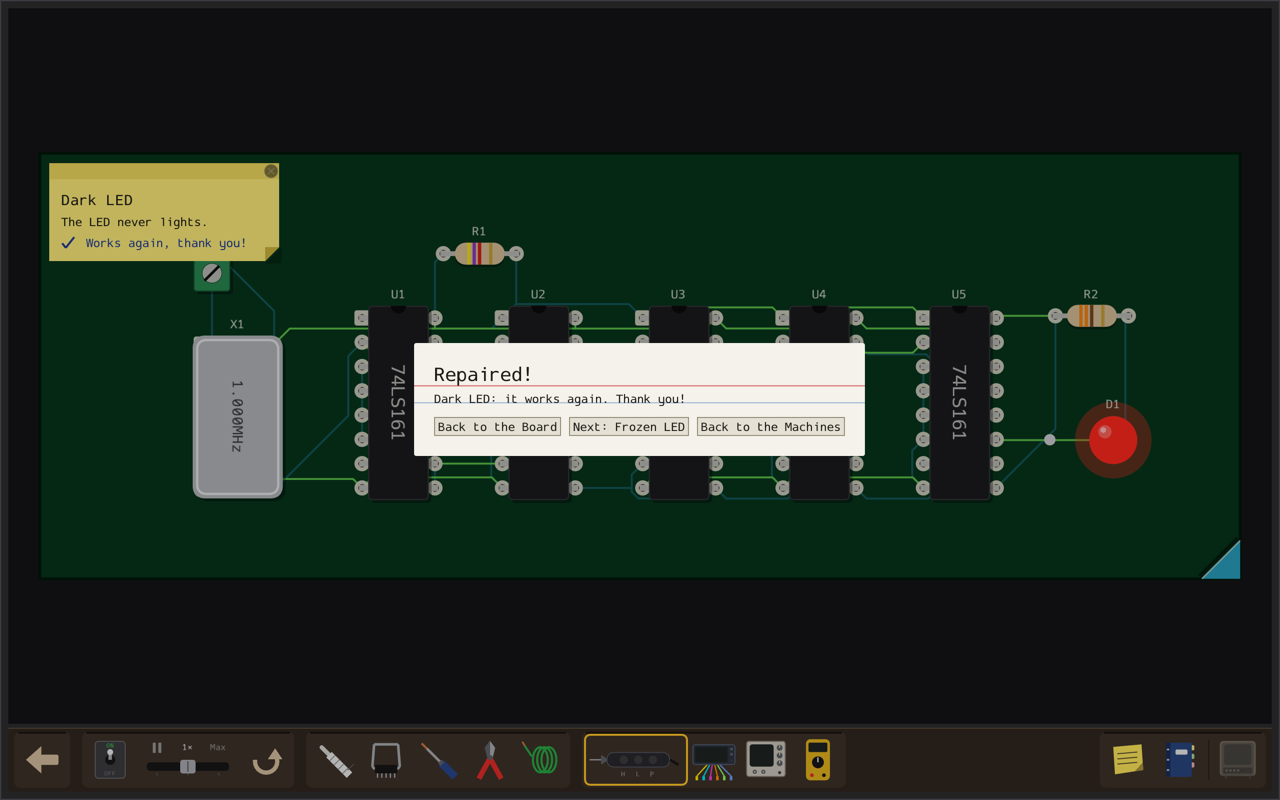
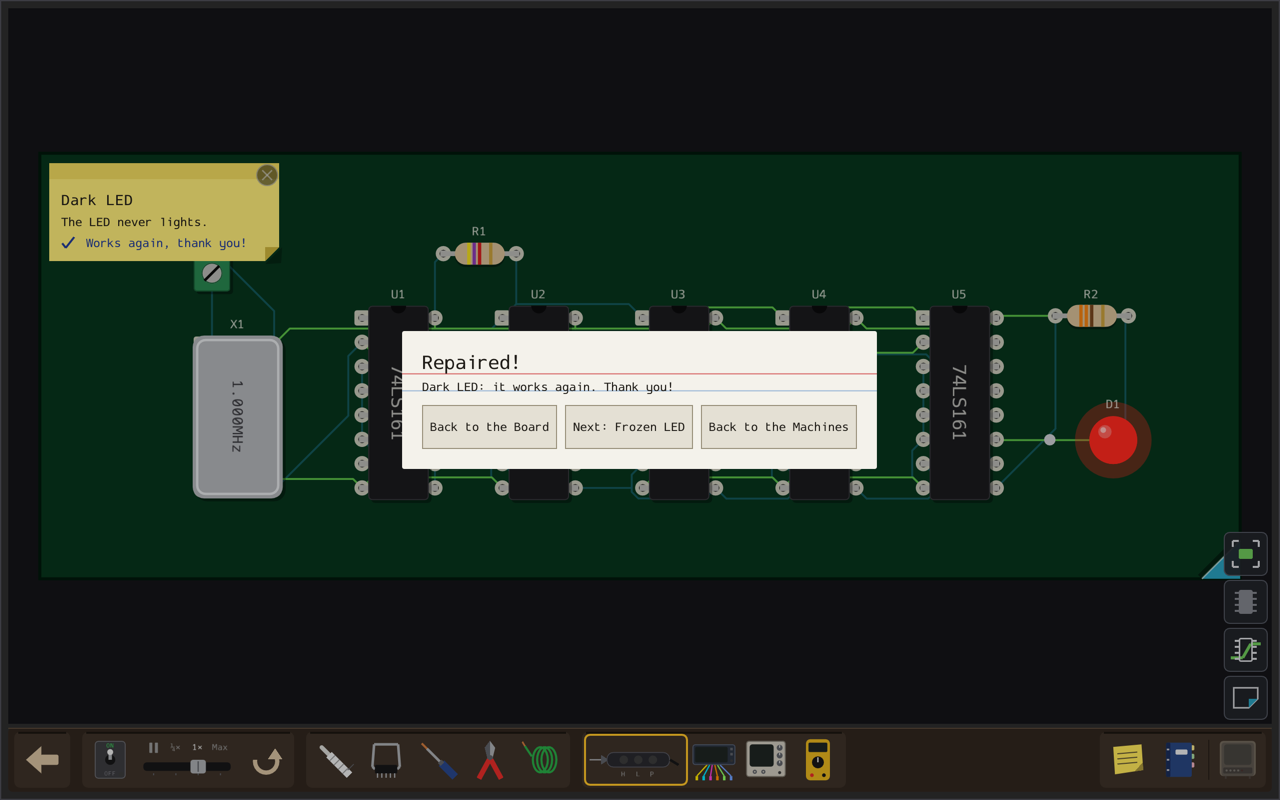
docs: README regenerated, the shots retaken after P8f and P8g
Every picture retaken: the view buttons, the run switch's slow motion, the held multimeter, the
BW-2001's keyboard. The text from the spec: the analyzer's pin / bus switch, the slow motion and
Reset keeping the pencil marks, the view buttons, and Random faults never running out (the binder's
Give up page).

diff --git a/README.md b/README.md
@@ -32,7 +32,9 @@ Every Machine shows up in the launcher with a short description, and each of its
 post-it you can pick. "Start the Machine" gives you the working one, to see how it should behave.
 A Puzzle you've repaired keeps its tick on the launcher, from one launch to the next.
 The last post-it, "Random fault", breaks the Machine somewhere new each time you open it, and
-checks that the fault shows before handing you the bench.
+checks that the fault shows before handing you the bench. It can be anywhere on the board, so
+they never run out: fix one and the owner's card offers you another. If one beats you, the
+binder's Give up page tells you what it was.
 
 ![The launcher](docs/readme/launcher.png)
 
@@ -95,8 +97,8 @@ Here the first four counters have been checked off, and the trace to the LED is 
 ### Instruments
 
 - **Logic probe**: touch any copper and it tells you HIGH, LOW or PULSE.
-- **Logic analyzer**: clip it on chip pins (shift-click takes a whole bus), set a trigger, and read
-  what happened before and after it.
+- **Logic analyzer**: clip it on chip pins (its pin / bus switch takes a whole bus), set a
+  trigger, and read what happened before and after it.
 - **Oscilloscope**: four channels, for when the exact timing between signals matters.
 - **Multimeter**: hold on copper; volts, or continuity with the power off.
 
@@ -135,7 +137,10 @@ And you can look inside the memory chips: the BW-2001's ROM disassembled as 6502
 - **The post-it** with the Puzzle's symptom.
 - **The Machine's own devices**: its TV, keyboard or paddle knobs, each in a window you can pop
   out to its own window on the desktop.
-- **Controls**: power, pause / real time / as fast as possible, and Reset to undo every repair.
+- **Controls**: power, pause / slow motion (a quarter of real time) / real time / as fast as
+  possible, and Reset to undo every repair (your pencil marks stay).
+- **View buttons** beside the Board: fit the whole Board, switch between the real and the plain
+  look, pick the copper under the chips, hold a button or key down, flip the Board over.
 
 The faults you'll meet are cracked traces, chip outputs stuck high or low, solder bridges, bad
 joints, bad memory cells, and the odd dead switch.

diff --git a/docs/README_SPEC.md b/docs/README_SPEC.md
@@ -70,7 +70,9 @@ back on. 114 Puzzles on 14 Machines, from a five-chip LED blinker to copies of t
 Then the launcher picture (`launcher`): each Machine with its paragraph, and a post-it per Puzzle.
 One sentence: a repaired Puzzle's post-it keeps its tick on the launcher, from one launch to the
 next. One sentence on the last post-it, "Random fault": a fault picked at random each time it is
-opened, checked to show before the bench opens; no count for those.
+opened, checked to show before the bench opens; no count for those. Then (the user, 2026-11-25)
+that they never run out: one can be anywhere on the Board, and the Thank-you Card offers
+another; and the binder's Give up page, which tells what it was.
 
 ### 6. A repair, step by step
 
@@ -119,8 +121,11 @@ The shelf's items, each with one line from its tooltip (`src/ui/shelf.cpp`, `kIt
     text and disassembles into nonsense);
   - `binder-glyphs`: the character ROM UA2, glyph by glyph.
 - **And the rest**, no pictures: the post-it, the Machine's own devices (TV, keyboard, paddle
-  knobs) in windows that pop out to their own desktop windows, the controls (power, pause / real
-  time / as fast as possible, Reset: undo every repair).
+  knobs) in windows that pop out to their own desktop windows, the controls (power, pause / slow
+  motion, a quarter of real time / real time / as fast as possible, Reset: undo every repair, the
+  pencil marks stay), the view buttons beside the Board (P8f, `src/ui/view_buttons.cpp`: fit the
+  whole Board, real or plain look, pick the copper under the chips, hold a button or key down,
+  flip the Board).
 
 Then one line on the kinds of faults met (from the `fault` lines of the Puzzles): cracked traces,
 stuck chip outputs, solder bridges, bad joints, bad memory cells, dead switches. No fault names
